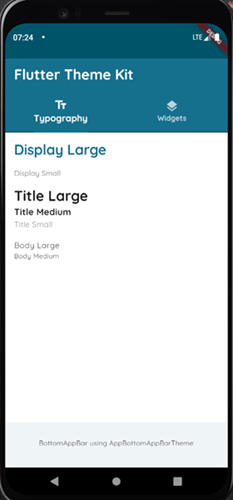
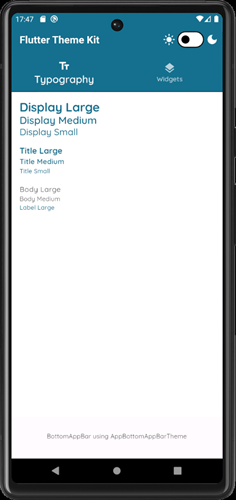
Refactor code structure for improved readability and maintainability

diff --git a/example/lib/main.dart b/example/lib/main.dart
@@ -1,6 +1,8 @@
 import 'package:flutter/material.dart';
 import 'package:app_theme_kit/app_theme_kit.dart';
 
+final ValueNotifier<bool> isDarkModeNotifier = ValueNotifier(false);
+
 void main() {
   runApp(const ThemeKitExample());
 }
@@ -10,21 +12,33 @@ class ThemeKitExample extends StatelessWidget {
 
   @override
   Widget build(BuildContext context) {
-    const customColors = AppColors(
+    const lightColors = AppColors(
       primary: Color(0xff13708E),
-      secondary: Color(0xff8F9093),
+      secondary: Colors.black87,
       background: Colors.white,
       surface: Colors.white,
       error: Colors.redAccent,
     );
+    final darkColors = AppColors(
+      primary: Colors.teal.shade200,
+      secondary: Colors.orange.shade200,
+      background: const Color(0xFF121212),
+      surface: const Color(0xFF1E1E1E),
+      error: Colors.red.shade300,
+    );
 
-    return MaterialApp(
-      debugShowCheckedModeBanner: false,
-      title: 'Flutter Theme Kit Example',
-      theme: AppTheme.light(colors: customColors),
-      darkTheme: AppTheme.dark(colors: customColors),
-      themeMode: ThemeMode.system,
-      home: const ThemeShowcasePage(),
+    return ValueListenableBuilder<bool>(
+      valueListenable: isDarkModeNotifier,
+      builder: (context, isDarkMode, _) {
+        return MaterialApp(
+          debugShowCheckedModeBanner: false,
+          title: 'Flutter Theme Kit Example',
+          theme: AppTheme.light(colors: lightColors),
+          darkTheme: AppTheme.dark(colors: darkColors),
+          themeMode: isDarkMode ? ThemeMode.dark : ThemeMode.light,
+          home: const ThemeShowcasePage(),
+        );
+      },
     );
   }
 }
@@ -42,7 +56,26 @@ class ThemeShowcasePage extends StatelessWidget {
       length: 2,
       child: Scaffold(
         appBar: AppBar(
+          centerTitle: false,
           title: const Text('Flutter Theme Kit'),
+          actions: [
+            ValueListenableBuilder<bool>(
+              valueListenable: isDarkModeNotifier,
+              builder: (context, isDarkMode, _) {
+                return Row(
+                  children: [
+                    const Icon(Icons.light_mode),
+                    Switch(
+                      value: isDarkMode,
+                      onChanged: (value) => isDarkModeNotifier.value = value,
+                    ),
+                    const Icon(Icons.dark_mode),
+                    const SizedBox(width: 8),
+                  ],
+                );
+              },
+            ),
+          ],
           bottom: TabBar(
             labelStyle: textTheme.displayMedium!.copyWith(color: Colors.white),
             labelColor: colors.surface,

diff --git a/README.md b/README.md
@@ -1,22 +1,24 @@
 # 📦 app_theme_kit
 
 A reusable **Material 3 theme package** for Flutter apps with customizable **color schemes, text styles, subthemes, and spacing constants**.  
-Quickly set up a consistent design system across your apps.
+Quickly set up consistent **colors, typography, spacing, and component themes** across your Flutter applications.
 
 ---
 
 ## ✨ Features
 
-- 🎨 **Predefined light & dark themes** (`ThemeData`)
-- 🔤 **Custom TextTheme** with Google Fonts (Quicksand)
-- 📏 **Design tokens**: spacing, padding, radius, elevation
+- 🎨 **Customizable color system** via `AppColors`
+- 🌗 **Light & Dark themes** (developer-defined colors)
+- 🔤 **Custom TextTheme** using Google Fonts (**Quicksand**)
+- 📏 **Design tokens**: spacing, radius, elevation
 - 🃏 **Subthemes included**:
+  - AppBarTheme
   - CardTheme
   - TabBarTheme
   - NavigationBarTheme
   - BottomAppBarTheme
-- 🌗 **Material 3 support** with system light/dark switching
-- 🛠 **Example app included** to showcase usage
+- 🧱 **Material 3 support**
+- 🧪 **Example app included** (with Light/Dark switch toggle)
 
 ---
 
@@ -26,7 +28,7 @@ Add to your `pubspec.yaml`:
 
 ```yaml
 dependencies:
-  app_theme_kit: ^0.0.1
+  app_theme_kit: ^0.0.9+1
 ```
 
 Then run:
@@ -43,28 +45,69 @@ Import the package:
 import 'package:app_theme_kit/app_theme_kit.dart';
 ```
 
-Wrap your app:
+## 🎨 Define Your Own Colors
+
+You are **not forced** to use static colors from the package.  
+Define your brand colors and inject them into the theme.
+
+```dart
+final lightColors = AppColors(
+  primary: Colors.teal,
+  secondary: Colors.orange,
+  background: Colors.white,
+  surface: Colors.grey.shade50,
+  error: Colors.redAccent,
+);
+
+final darkColors = AppColors(
+  primary: Colors.teal.shade200,
+  secondary: Colors.orange.shade200,
+  background: const Color(0xFF121212),
+  surface: const Color(0xFF1E1E1E),
+  error: Colors.red.shade300,
+);
+```
+
+---
+
+## 🧱 Apply Theme to Your App
+
 ```dart
 MaterialApp(
   title: 'My App',
-  theme: AppTheme.light,
-  darkTheme: AppTheme.dark,
-  themeMode: ThemeMode.system, // Light, Dark, or System
+  theme: AppTheme.light(colors: lightColors),
+  darkTheme: AppTheme.dark(colors: darkColors),
+  themeMode: ThemeMode.system,
   home: const HomePage(),
 );
 ```
 
 ---
 
-## 🖌 Typography Showcase
+## 🌗 Light / Dark Toggle (Example App)
+
+The example app demonstrates switching themes using a **Switch** widget:
+
+```dart
+Switch(
+  value: isDarkMode,
+  onChanged: (value) => isDarkModeNotifier.value = value,
+);
+```
+
+This keeps theme control inside the **application**, not inside the package.
+
+---
+
+## 🔤 Typography Showcase
 
 ```dart
 Text("Display Large", style: Theme.of(context).textTheme.displayLarge),
 Text("Title Medium", style: Theme.of(context).textTheme.titleMedium),
-Text("Body Small", style: Theme.of(context).textTheme.bodyMedium),
+Text("Body Medium", style: Theme.of(context).textTheme.bodyMedium),
 ```
 
-✅ All fonts use **Google Fonts Quicksand** by default.  
+✅ All text styles use **GoogleFonts.quicksand** by default.
 
 ---
 
@@ -169,6 +212,9 @@ It demonstrates:
 
 ### Settings
 ![Settings](https://raw.githubusercontent.com/afesohromeo/app_theme_kit/main/screenshots/widgets_settings.png)
+
+### Dark mode
+![Settings](https://raw.githubusercontent.com/afesohromeo/app_theme_kit/main/screenshots/dark_mode.png)
 
 ---
 

diff --git a/CHANGELOG.md b/CHANGELOG.md
@@ -59,3 +59,6 @@ All notable changes to this project will be documented in this file.
 - Example app now correctly uses `AppTheme.light()` and `AppTheme.dark()`.
 - Removed hardcoded color usage from the example in favor of theme-driven colors.
 - Prevented missing or null `TextTheme` styles in the example app.
+## 0.0.9+1
+- update README.md file to demonstrate switching themes from light to dark
+- No code changes.
